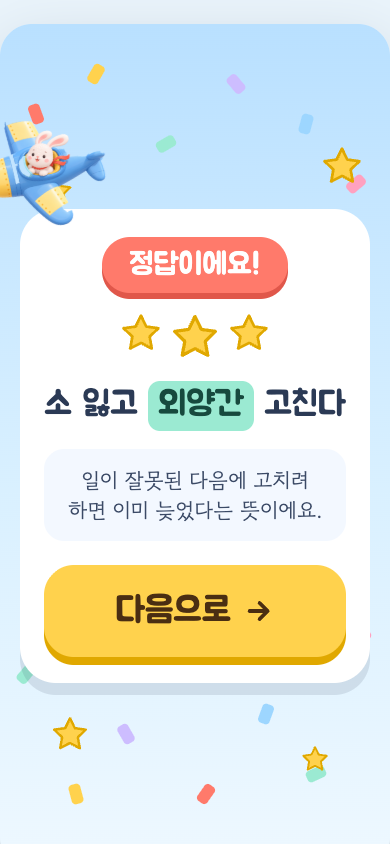
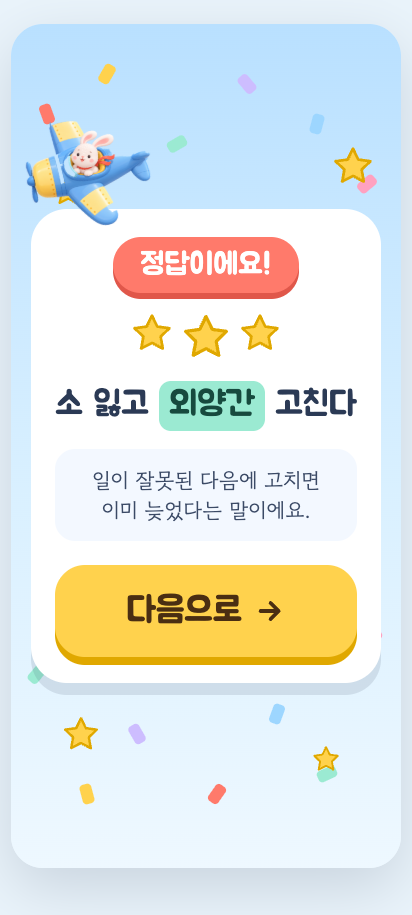
fix: 🐛 클리어 화면 토끼 비행기 위치 보정
- 카드 밖으로 과하게 벗어나던 비행기 위치를 좌측으로 조정 (left:-40px → -6px)
- index.html / src/body.html 동시 반영
- 변경된 클리어 화면 스크린샷(docs/images/screen-clear.png) 갱신

diff --git a/index.html b/index.html
@@ -493,7 +493,7 @@ button{touch-action:manipulation}
 <div class="confetti" style="left:30px;top:80px;background:#FF7A6B;transform:rotate(-20deg)"></div><div class="confetti" style="left:90px;top:40px;background:#FFD24D;transform:rotate(30deg)"></div><div class="confetti" style="left:160px;top:110px;background:#9BEAD2;transform:rotate(60deg)"></div><div class="confetti" style="left:230px;top:50px;background:#CDBDFF;transform:rotate(-40deg)"></div><div class="confetti" style="left:300px;top:90px;background:#9DD6FF;transform:rotate(15deg)"></div><div class="confetti" style="left:350px;top:150px;background:#FFA1C0;transform:rotate(50deg)"></div><div class="confetti" style="left:50px;top:200px;background:#FF7A6B;transform:rotate(70deg)"></div><div class="confetti" style="left:330px;top:230px;background:#FFD24D;transform:rotate(-25deg)"></div><div class="confetti" style="left:20px;top:640px;background:#9BEAD2;transform:rotate(40deg)"></div><div class="confetti" style="left:120px;top:700px;background:#CDBDFF;transform:rotate(-30deg)"></div><div class="confetti" style="left:260px;top:680px;background:#9DD6FF;transform:rotate(20deg)"></div><div class="confetti" style="left:355px;top:600px;background:#FFA1C0;transform:rotate(-60deg)"></div><div class="confetti" style="left:200px;top:760px;background:#FF7A6B;transform:rotate(35deg)"></div><div class="confetti" style="left:70px;top:760px;background:#FFD24D;transform:rotate(-15deg)"></div><div class="confetti" style="left:310px;top:740px;background:#9BEAD2;transform:rotate(65deg)"></div><div style="position:absolute;left:40px;top:150px"><svg class="star" viewBox="0 0 24 24" width="34" height="34" aria-hidden="true"><path d="M12 2.5l2.9 6 6.6.9-4.8 4.6 1.2 6.5L12 17.4 6.1 20.5l1.2-6.5L2.5 9.4l6.6-.9z" fill="#FFD24D" stroke="#E0A800" stroke-width="1.5" stroke-linejoin="round"/></svg></div><div style="position:absolute;left:320px;top:120px"><svg class="star" viewBox="0 0 24 24" width="44" height="44" aria-hidden="true"><path d="M12 2.5l2.9 6 6.6.9-4.8 4.6 1.2 6.5L12 17.4 6.1 20.5l1.2-6.5L2.5 9.4l6.6-.9z" fill="#FFD24D" stroke="#E0A800" stroke-width="1.5" stroke-linejoin="round"/></svg></div><div style="position:absolute;left:300px;top:720px"><svg class="star" viewBox="0 0 24 24" width="30" height="30" aria-hidden="true"><path d="M12 2.5l2.9 6 6.6.9-4.8 4.6 1.2 6.5L12 17.4 6.1 20.5l1.2-6.5L2.5 9.4l6.6-.9z" fill="#FFD24D" stroke="#E0A800" stroke-width="1.5" stroke-linejoin="round"/></svg></div><div style="position:absolute;left:50px;top:690px"><svg class="star" viewBox="0 0 24 24" width="40" height="40" aria-hidden="true"><path d="M12 2.5l2.9 6 6.6.9-4.8 4.6 1.2 6.5L12 17.4 6.1 20.5l1.2-6.5L2.5 9.4l6.6-.9z" fill="#FFD24D" stroke="#E0A800" stroke-width="1.5" stroke-linejoin="round"/></svg></div>
 <div style="position:absolute;left:0;top:0;width:390px;height:844px;display:flex;align-items:center;justify-content:center;padding:0 20px">
   <div class="card" style="width:100%;display:flex;flex-direction:column;align-items:center;gap:18px;position:relative">
-    <img class="plane side" src="assets/bunny_happy.png" alt="토끼 비행기" style="left:-40px;top:-96px;transform:rotate(-14deg);width:128px;height:116px">
+    <img class="plane side" src="assets/bunny_happy.png" alt="토끼 비행기" style="left:-6px;top:-96px;transform:rotate(-14deg);width:128px;height:116px">
     <div class="ribbon">정답이에요!</div>
     <div style="display:flex;gap:6px"><svg class="star" viewBox="0 0 24 24" width="44" height="44" aria-hidden="true"><path d="M12 2.5l2.9 6 6.6.9-4.8 4.6 1.2 6.5L12 17.4 6.1 20.5l1.2-6.5L2.5 9.4l6.6-.9z" fill="#FFD24D" stroke="#E0A800" stroke-width="1.5" stroke-linejoin="round"/></svg><svg class="star" viewBox="0 0 24 24" width="52" height="52" aria-hidden="true"><path d="M12 2.5l2.9 6 6.6.9-4.8 4.6 1.2 6.5L12 17.4 6.1 20.5l1.2-6.5L2.5 9.4l6.6-.9z" fill="#FFD24D" stroke="#E0A800" stroke-width="1.5" stroke-linejoin="round"/></svg><svg class="star" viewBox="0 0 24 24" width="44" height="44" aria-hidden="true"><path d="M12 2.5l2.9 6 6.6.9-4.8 4.6 1.2 6.5L12 17.4 6.1 20.5l1.2-6.5L2.5 9.4l6.6-.9z" fill="#FFD24D" stroke="#E0A800" stroke-width="1.5" stroke-linejoin="round"/></svg></div>
     <p data-role="clear-sentence" style="margin:0;font-size:34px;line-height:1.35;text-align:center;color:#2B3A55">소 잃고 <span class="hl">외양간</span> 고친다</p>

diff --git a/src/body.html b/src/body.html
@@ -297,7 +297,7 @@
 <div class="confetti" style="left:30px;top:80px;background:#FF7A6B;transform:rotate(-20deg)"></div><div class="confetti" style="left:90px;top:40px;background:#FFD24D;transform:rotate(30deg)"></div><div class="confetti" style="left:160px;top:110px;background:#9BEAD2;transform:rotate(60deg)"></div><div class="confetti" style="left:230px;top:50px;background:#CDBDFF;transform:rotate(-40deg)"></div><div class="confetti" style="left:300px;top:90px;background:#9DD6FF;transform:rotate(15deg)"></div><div class="confetti" style="left:350px;top:150px;background:#FFA1C0;transform:rotate(50deg)"></div><div class="confetti" style="left:50px;top:200px;background:#FF7A6B;transform:rotate(70deg)"></div><div class="confetti" style="left:330px;top:230px;background:#FFD24D;transform:rotate(-25deg)"></div><div class="confetti" style="left:20px;top:640px;background:#9BEAD2;transform:rotate(40deg)"></div><div class="confetti" style="left:120px;top:700px;background:#CDBDFF;transform:rotate(-30deg)"></div><div class="confetti" style="left:260px;top:680px;background:#9DD6FF;transform:rotate(20deg)"></div><div class="confetti" style="left:355px;top:600px;background:#FFA1C0;transform:rotate(-60deg)"></div><div class="confetti" style="left:200px;top:760px;background:#FF7A6B;transform:rotate(35deg)"></div><div class="confetti" style="left:70px;top:760px;background:#FFD24D;transform:rotate(-15deg)"></div><div class="confetti" style="left:310px;top:740px;background:#9BEAD2;transform:rotate(65deg)"></div><div style="position:absolute;left:40px;top:150px"><svg class="star" viewBox="0 0 24 24" width="34" height="34" aria-hidden="true"><path d="M12 2.5l2.9 6 6.6.9-4.8 4.6 1.2 6.5L12 17.4 6.1 20.5l1.2-6.5L2.5 9.4l6.6-.9z" fill="#FFD24D" stroke="#E0A800" stroke-width="1.5" stroke-linejoin="round"/></svg></div><div style="position:absolute;left:320px;top:120px"><svg class="star" viewBox="0 0 24 24" width="44" height="44" aria-hidden="true"><path d="M12 2.5l2.9 6 6.6.9-4.8 4.6 1.2 6.5L12 17.4 6.1 20.5l1.2-6.5L2.5 9.4l6.6-.9z" fill="#FFD24D" stroke="#E0A800" stroke-width="1.5" stroke-linejoin="round"/></svg></div><div style="position:absolute;left:300px;top:720px"><svg class="star" viewBox="0 0 24 24" width="30" height="30" aria-hidden="true"><path d="M12 2.5l2.9 6 6.6.9-4.8 4.6 1.2 6.5L12 17.4 6.1 20.5l1.2-6.5L2.5 9.4l6.6-.9z" fill="#FFD24D" stroke="#E0A800" stroke-width="1.5" stroke-linejoin="round"/></svg></div><div style="position:absolute;left:50px;top:690px"><svg class="star" viewBox="0 0 24 24" width="40" height="40" aria-hidden="true"><path d="M12 2.5l2.9 6 6.6.9-4.8 4.6 1.2 6.5L12 17.4 6.1 20.5l1.2-6.5L2.5 9.4l6.6-.9z" fill="#FFD24D" stroke="#E0A800" stroke-width="1.5" stroke-linejoin="round"/></svg></div>
 <div style="position:absolute;left:0;top:0;width:390px;height:844px;display:flex;align-items:center;justify-content:center;padding:0 20px">
   <div class="card" style="width:100%;display:flex;flex-direction:column;align-items:center;gap:18px;position:relative">
-    <img class="plane side" src="assets/bunny_happy.png" alt="토끼 비행기" style="left:-40px;top:-96px;transform:rotate(-14deg);width:128px;height:116px">
+    <img class="plane side" src="assets/bunny_happy.png" alt="토끼 비행기" style="left:-6px;top:-96px;transform:rotate(-14deg);width:128px;height:116px">
     <div class="ribbon">정답이에요!</div>
     <div style="display:flex;gap:6px"><svg class="star" viewBox="0 0 24 24" width="44" height="44" aria-hidden="true"><path d="M12 2.5l2.9 6 6.6.9-4.8 4.6 1.2 6.5L12 17.4 6.1 20.5l1.2-6.5L2.5 9.4l6.6-.9z" fill="#FFD24D" stroke="#E0A800" stroke-width="1.5" stroke-linejoin="round"/></svg><svg class="star" viewBox="0 0 24 24" width="52" height="52" aria-hidden="true"><path d="M12 2.5l2.9 6 6.6.9-4.8 4.6 1.2 6.5L12 17.4 6.1 20.5l1.2-6.5L2.5 9.4l6.6-.9z" fill="#FFD24D" stroke="#E0A800" stroke-width="1.5" stroke-linejoin="round"/></svg><svg class="star" viewBox="0 0 24 24" width="44" height="44" aria-hidden="true"><path d="M12 2.5l2.9 6 6.6.9-4.8 4.6 1.2 6.5L12 17.4 6.1 20.5l1.2-6.5L2.5 9.4l6.6-.9z" fill="#FFD24D" stroke="#E0A800" stroke-width="1.5" stroke-linejoin="round"/></svg></div>
     <p data-role="clear-sentence" style="margin:0;font-size:34px;line-height:1.35;text-align:center;color:#2B3A55">소 잃고 <span class="hl">외양간</span> 고친다</p>
